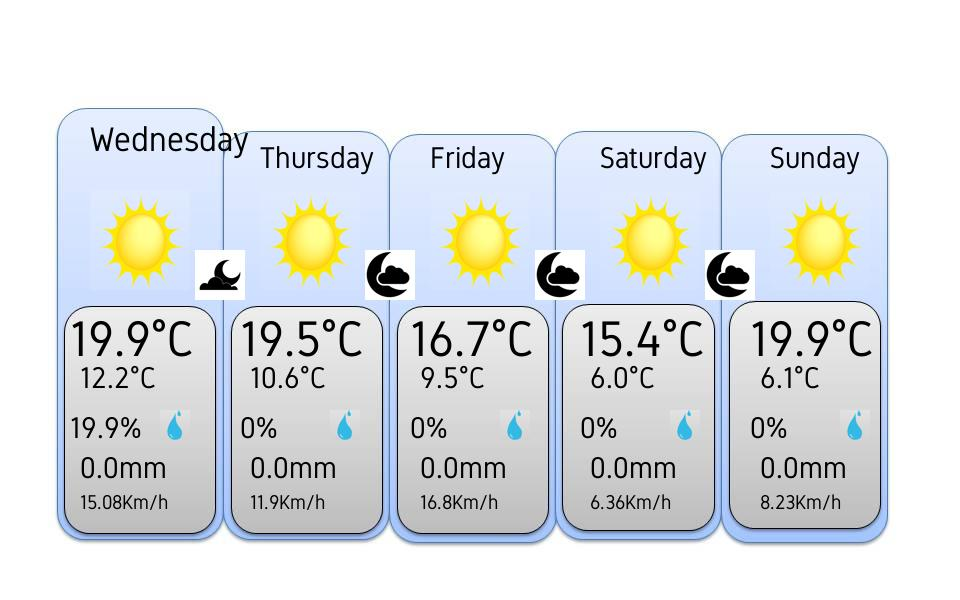
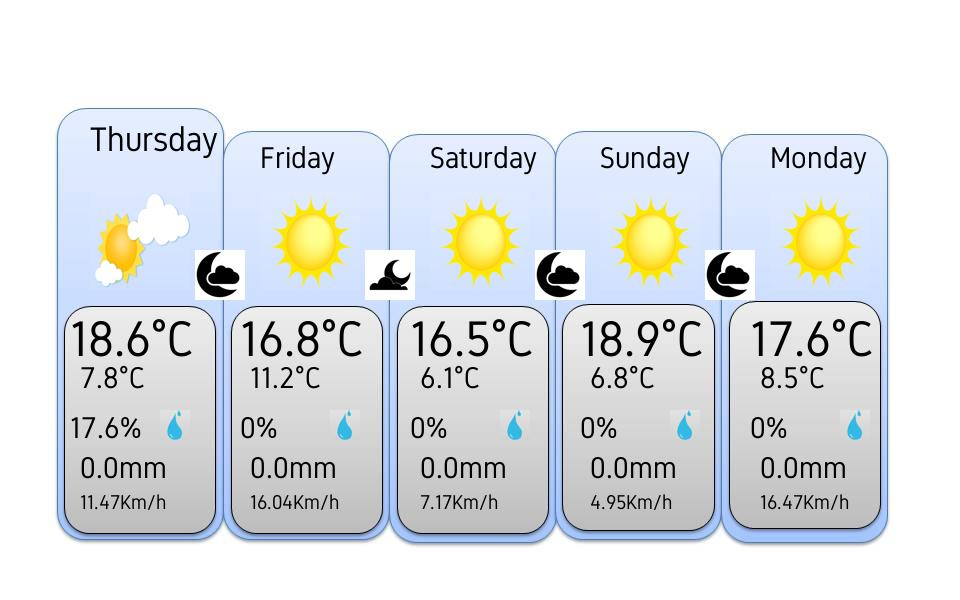
mise à jour

diff --git a/projetmeteo.py b/projetmeteo.py
@@ -122,7 +122,7 @@ for i  in range(len(maxtemp)):
     img.paste(img_cloud.resize((100, 100)),(C+20+170*i, 190),)
   elif (25>cloudj[i]):
     img.paste(img_sun.resize((100, 100)),(C+20+170*i, 190),)
-  elif (60>cloud[i]):
+  elif (60>cloudj[i]):
     img.paste(img_cloud2.resize((100, 100)),(C+20+170*i, 190),)
   else:
     img.paste(img_cloud3.resize((100, 100)),(C+20+170*i, 190),)

diff --git a/app_meteo.py b/app_meteo.py
@@ -132,9 +132,6 @@ for i in range(len(cloudn)):
   else:
     img.paste(img_nua_nuit.resize((50, 50)),(C+125+170*i, 250),)
 
-img = img.save("julteo.jpg")
-img_path = "julteo.jpg"
-img = Image.open(img_path)
 
 # Vérifiez si l'image est vide
 if img is not None:
